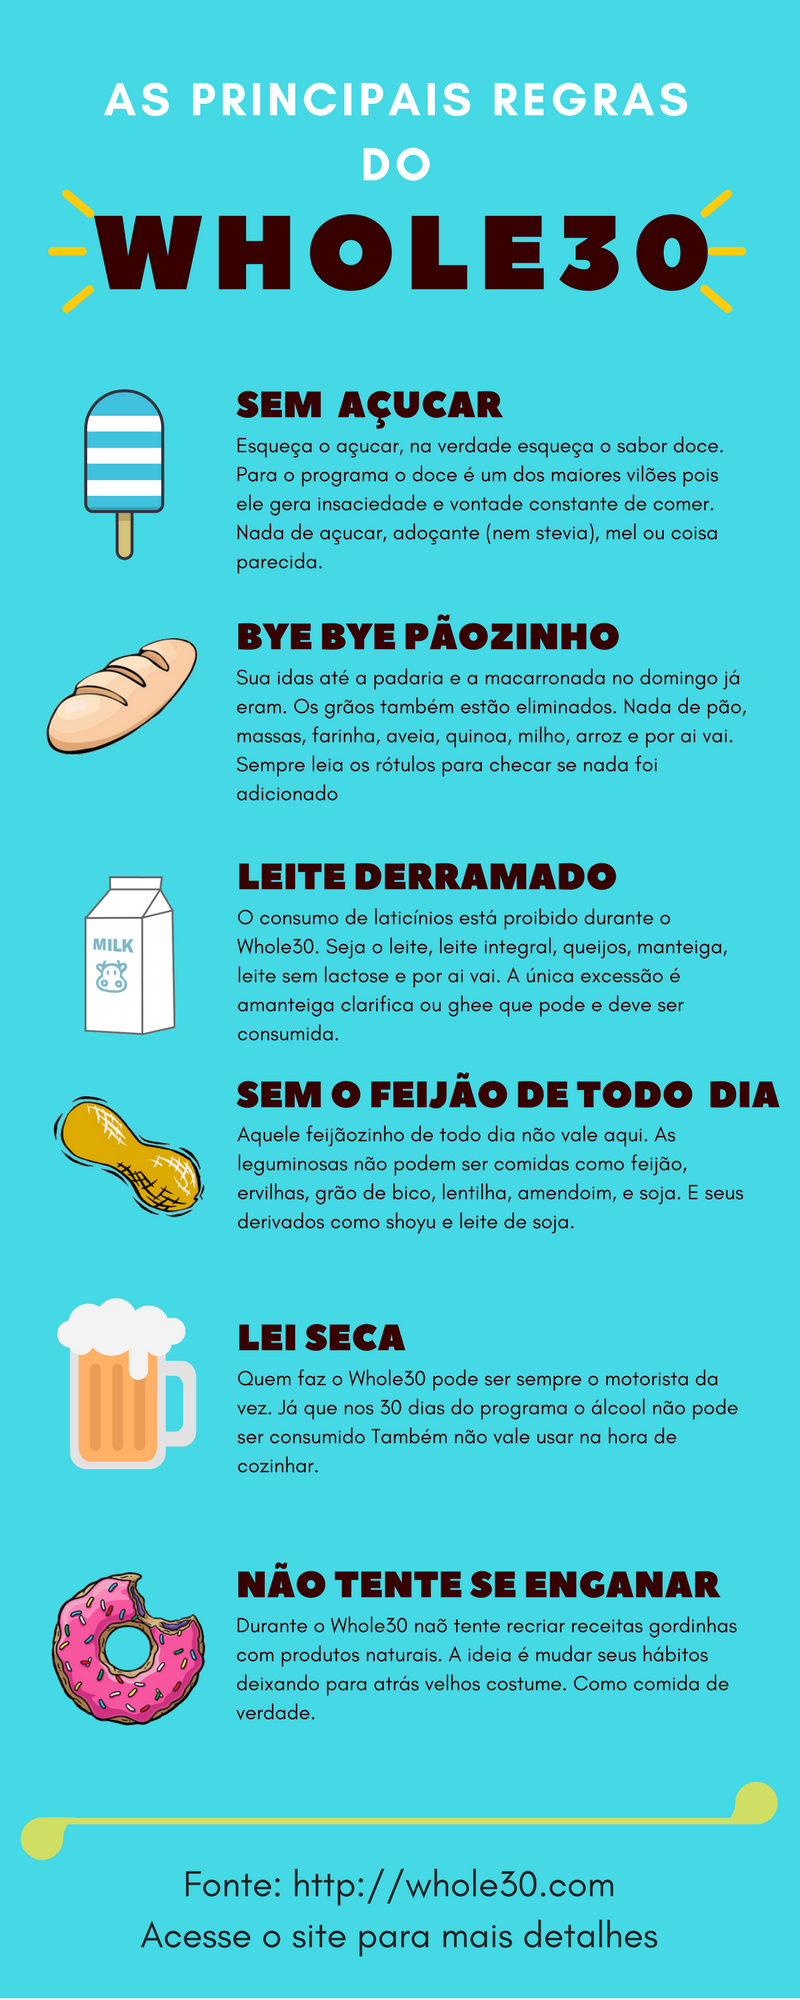
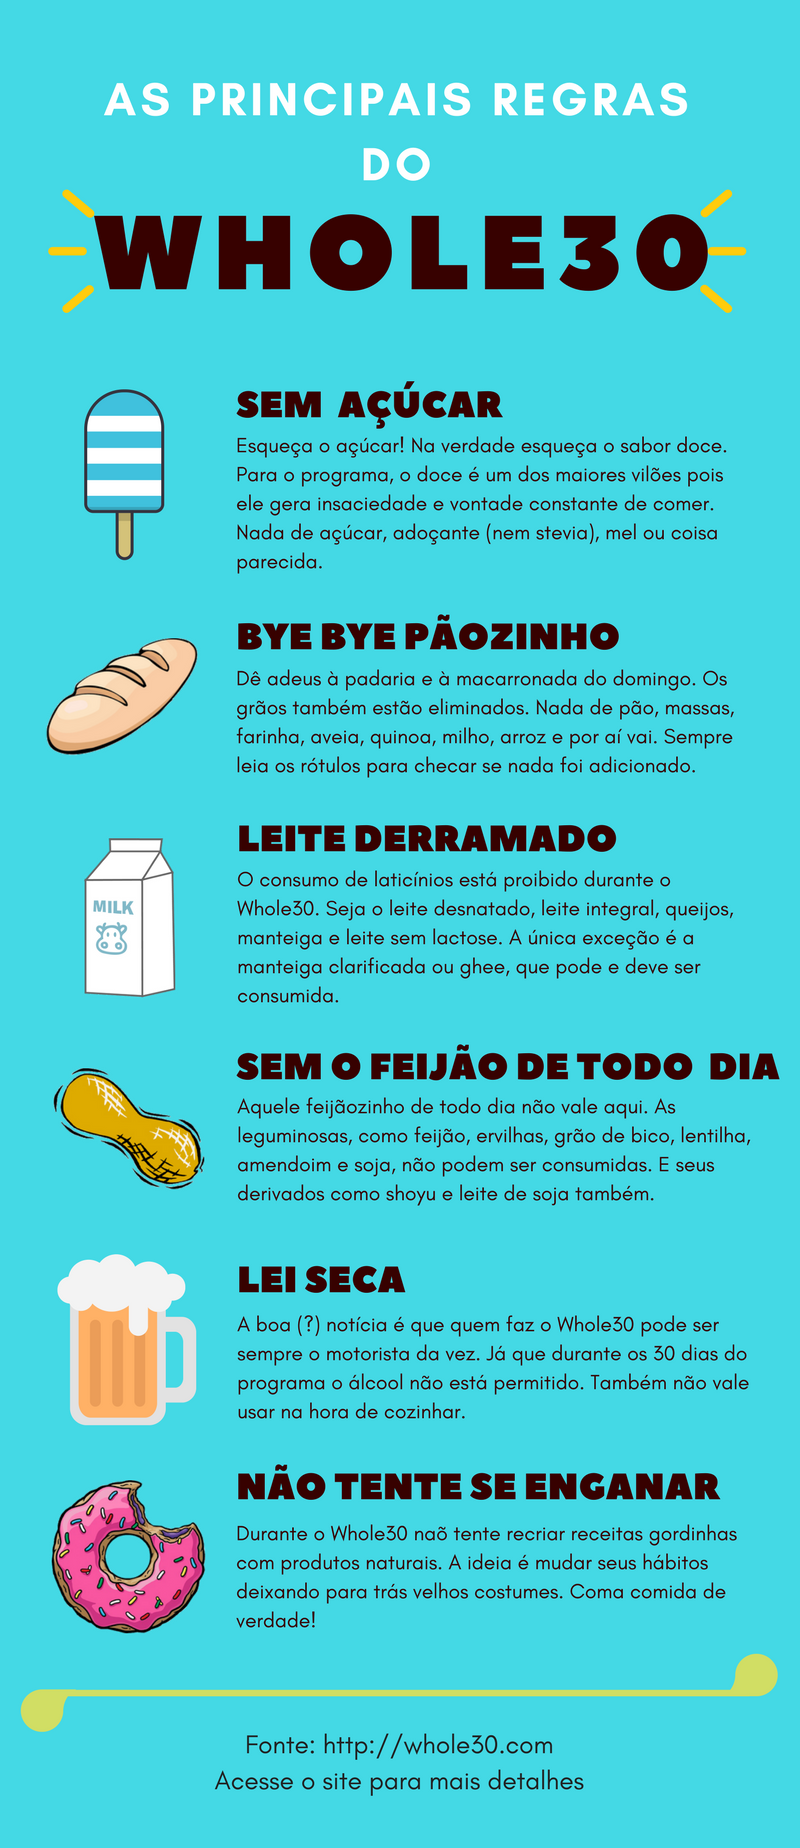
Ajustes finais Whole30

Changed region(s): [[0.0312, 0.0308, 0.9688, 0.987], [0.625, 0.0308, 0.875, 0.0617], [0.125, 0.0308, 0.2188, 0.0617]]

diff --git a/layouts/shortcodes/imdb.html b/layouts/shortcodes/imdb.html
@@ -1,0 +1,9 @@
+<div class="imdb">
+  <span class="imdbRatingPlugin" data-user="ur27934874" data-title="{{ .Get 0 }}" data-style="p4">
+    <a target="_blank" href="http://www.imdb.com/title/{{ .Get 0 }}/?ref_=plg_rt_1"><img src="http://g-ecx.images-amazon.com/images/G/01/imdb/plugins/rating/images/imdb_46x22.png" alt="" />
+    </a>
+  </span>
+  <script>
+  (function(d,s,id){var js,stags=d.getElementsByTagName(s)[0];if(d.getElementById(id)){return;}js=d.createElement(s);js.id=id;js.src="http://g-ec2.images-amazon.com/images/G/01/imdb/plugins/rating/js/rating.min.js";stags.parentNode.insertBefore(js,stags);})(document,'script','imdb-rating-api');
+  </script>
+</div>

diff --git a/themes/hugo-redlounge/static/css/redlounge.css b/themes/hugo-redlounge/static/css/redlounge.css
@@ -399,6 +399,15 @@ a.post-category:hover {
   margin-right: 0.4rem;
   margin-lefT: 0.1rem;
 }
+/*IMDB*/
+.imdb {
+  max-width: 50%;
+  height: auto;
+  float: left;
+  padding: 10px;
+  margin: 10px;
+  border-right: 1px solid #000
+}
 
 /* Paging */
 .paging {
@@ -567,4 +576,7 @@ blockquote.him p {
   display: inline;
   color: #608DB2;
 
+}
+li::before{
+  font-size: 18px;
 }

diff --git a/content/estilo-de-vida/o-desafio-do-whole30.md b/content/estilo-de-vida/o-desafio-do-whole30.md
@@ -1,5 +1,5 @@
 +++
-title = "O Desafio do Whole30"
+title = "O Desafio do Whole30 - Onde vive? O que come?"
 date = "2017-02-02T20:46:59"
 author = "Felipe Toffolo"
 banner = "/img/2017/02/Whole30.png"
@@ -10,62 +10,67 @@ draft = true
 +++
 ## Em busca da saúde perdida
 
-Hoje todos nós (ou quase todos) buscamos ter uma vida mais saudável, sem perder o prazer de viver.
-Essa busca muitas vezes parece meio antagônica, já que perseguindo as duas coisas muitas vezes a gente acaba não encontrando nenhuma.
-Com isso a acabamos vendo pessoas que buscam dietas malucas ou ficam malucas fazendo dietas, contando pontos, ficando três dias tomando somente sopa e por aí vai.
-Nessas horas a gente acaba pensando, por que é tão dificil ser saudável e comer as coisas que eu gosto?
-Bem, talvez o problema é que a gente gosta das coisas erradas. Pelo menos isso é o que propõe o Whole 30.
+Hoje todos nós (ou quase todos) buscamos ter uma vida mais saudável, sem que tudo pareça sem graça.
+Essa busca normalmente parece meio antagônica, já que perseguindo as duas coisas muitas vezes a gente acaba não encontrando nenhuma.
+Com isso, acabamos vendo pessoas que buscam dietas malucas ou ficam malucas fazendo dietas, contando pontos, ficando três dias tomando somente sopa e por aí vai.
+Nessas horas a gente acaba pensando: por que é tão dificil ser saudável e comer as coisas que eu gosto?
+Bem, talvez o problema é que gostamos das coisas erradas. Pelo menos isso é o que propõe o Whole30.
 
 ## Whole who?
 
-O Whole 30 é um programa, ou dieta, ou filosofia (eu ainda não sei do que chamar), que te propõe um ~desafio~ de 30 dias onde você deve seguir as regras do programa. Essa regras trazem uma série de limitações alimentares (veja o infográfico) que você deve seguir durante 30 dias. A ideia é que, cortando esses alimentos durante 30 dias, você consiga reiniciar o seu corpo e a sua alimentação. {{% quote-her "Comentário da Larissa bem relevante ao assunto que estamos discutindo nesse momento. Será mesmo? - Larissa" %}} Ou seja, não é somente emagrecer, mas ensinar o seu corpo e mente a gostarem das coisas certas e ao menos tentar esquecer as erradas. A partir dessa mudança de hábitos, o Whole 30 promete resolver vários problemas da sua saúde que podem estar sendo causados pela sua alimentação e você nem sabe.
-{{% figure src="/img/2017/02/Whole30-info.png" alt="Infográfico regras do whole30" class="pure-img-responsive pure-img-infographic" %}}
-[Conheça mais do Whole30 aqui][eea85add]
+O Whole30 é um programa, ou dieta, ou filosofia (eu ainda não sei do que chamar), que propõe uma mundança de hábitos de 30 dias onde você deve seguir uma série de restrições alimentares (veja o infográfico). A ideia é que, cortando esses alimentos durante esse período, você consiga reiniciar o seu corpo e reprogramar os seus hábitos alimentares de uma forma drástica.
+Ou seja, não é somente emagrecer, mas ensinar o seu corpo e a sua mente a gostarem das coisas certas e ao menos tentar esquecer as erradas. Fazendo com que seu corpo pare de usar o açucar como combustível principal e passe a usar a gordura. A partir dessa mudança de hábitos, o Whole30 promete resolver vários problemas da sua saúde que podem estar sendo causados pela sua alimentação (e que você nem sabe), além de trazer vários benefícios para o seu corpo.
+{{% quote-her "Ver todos os seus shorts e calças folgados é um deles. :P - Larissa" %}}
+
+{{% figure src="/img/2017/02/Whole30-info.png" alt="Infográfico regras do Whole30" class="pure-img-responsive pure-img-infographic" %}}
 
 ## A nossa experiência
 
-A Larissa surgiu com essa história de Whole30. De início eu falei que topava. Mas aí ela me disse que eu ia ter que ficar sem beber, aí eu desisti. Só que ela insistiu e não teve jeito. Resolvemos fazer o Whole30.
-{{% quote-him "Comentário da Felipe bem relevante ao assunto que estamos discutindo nesse momento. Será mesmo?" %}}
-Antes de começar, eu sugiro que você compre o livro ou leia o site **oficial** o máximo que conseguir. Eu já vi vários sites dando informação errada por aí. No site também tem vários PDF's que você pode baixar, bem [aqui][767ac2c2], e ter no seu celular para consultar quando necessário (eu usei MUITO).
-Como está em ingles fiz uma versão da lista de comprar em português, baixe aqui.
+A Larissa surgiu com essa história de Whole30. De início eu falei que topava. Mas aí ela me disse que eu ia ter que ficar sem beber, aí eu desisti. Só que ela insistiu e não teve jeito. Resolvemos (ela resolveu) fazer o Whole30.
+Antes de começar, eu sugiro que você compre o livro ou leia o site **oficial** o máximo que conseguir. Eu já vi vários sites dando informação errada por aí. No site também tem vários PDF's que você pode baixar [aqui][767ac2c2]. É bom ter no seu celular para consultar quando necessário (eu usei MUITO).
 
 ### Os Primeiros Dias
 
-Eu poderia dizer que os primeiros dias foram fáceis. A gente estava bem empolgado.
-É bom ressaltar que já tinhamos uma alimentação bem saudável antes. Não sabiamos há muito tempo o que é refrigerante e fast-food aqui em casa é tabu.
- Algumas pessoas têm reações durante os primeiros dias como cansaço, dores de barriga, mau humor e dor de cabeça. Eu tive muita dor de cabeça durante três dias, mas depois passou. A justificativa disso é que seu corpo está passando por um processo de desintoxicação e isso impactará em algumas reações.
+Já tinhamos uma alimentação bem saudável antes. E os primeiros dias foram fáceis. A gente estava bem empolgado e isso facilitou bastante. No início acontece de algumas pessoas terem reações como cansaço, dores de barriga, mau humor e dor de cabeça (no livro existe uma timeline explicando cada efeito desse). Eu tive muita dor de cabeça durante três dias, mas depois passou. A justificativa disso é que seu corpo está passando por um processo de desintoxicação e isso causa essas reações.
 
-Tudo ia muito bem até o primeiro dia que eu passei fome. Fomos sair pela primeira vez em um shopping, para a minha supresa, não tinha um lugar que servia algo decente para que eu pudesse comer. Acabei tendo que conversar com o atendente e pedir para fazer algumas substituições no prato (isso vira rotina).
+### Fazendo comida de verdade
+
+Eu adoro cozinhar, e cozinhar as receitas do Whole30 foi uma experiência diferente para mim. Para início de conversa eu não podia usar quase nada que eu estava habituado para dar aquele toque na comida. Ia fazer uma saladinha, não podia colocar queijo. Ia fazer um molho, o vinho tava proibido. Confesso que de início eu estranhei. Só que aí veio a parte legal. Eu tive que começar a utilizar vários ingredientes que eu deixava de lado, ou usava como coadjuvantes, e que agora são essenciais no meu dia a dia. Maionese caseira, leite de coco, abacate e uma variedade de verduras que eu nem dava ideia no supermercado (agora mal vamos ao supermercado, a feira é o destino mais comum).
+{{% quote-her "A parte boa para mim é que o meu papel era experimentar tudo isso. Delícia.  - Larissa" %}}
+Depois que eu peguei a prática, tudo ficou tranquilo de fazer e mesmo assim muito gostoso (em breve receitas).
 
 ### No meio do caminho tinha uma festa
 
-A gente gosta muito de se encontrar com os amigos, tomar um vinhozinho, comer um tira-gosto e deixar a conversa rolar. E essa era uma preocupação que eu tinha. Será que vou ficar anti-social? Será que vou achar tudo chato? Felizmente não foi isso que aconteceu. Saímos várias vezes com nosso amigos e todas as vezes foi bem divertido. A mesma coisa? Lógico que não né, mas foi bem bom mesmo assim.
+A gente gosta muito de encontrar os amigos, tomar um vinhozinho, comer um tira-gosto e deixar a conversa rolar. E essa era uma preocupação que eu tinha. Será que vou ficar anti-social? Será que vou achar tudo chato? Felizmente não foi isso que aconteceu. Saímos várias vezes com nossos amigos e todas as vezes foi bem divertido. (Pra gente né, não sei pra eles que ficavam escutando eu falar de Whole30) A mesma coisa? Lógico que não né, mas foi bem bom mesmo assim.
 
-### E no final a recompensa
+### E no final, a recompensa
 
-Ao chegar ao fim dos 30 dias era a hora de receber os louros da vitória. Não tinhamos subido ainda na balança, já que essa é uma das regras do programa, você só pode se pesar no final.
+Ao chegar ao fim dos 30 dias era a hora de receber os louros da vitória. Não tínhamos subido ainda na balança, já que essa é uma das regras do programa, você só pode se pesar ao final.
 
-O que a gente percebeu foi:
+O que percebemos foi:
 
 - Olhando no espelho deu para ver que o nosso corpo deu uma boa secada, além disso as nossas calças ficaram folgadas.
-- A nossa disposição melhorou muito. Eu tenho mais energia para usar durante o dia, não fico mais de bode depois do almoço e a noite durmo super bem. Até acordar pra cedo ir malhar ficou mais fácil
-- Eu achava que na balança eu não veria diferença, mas acabei perdendo 4,5kg para o meu espanto.
-- Com o tempo a gente criou os hábitos e se acostumou com essa vida. Já não lembro mais o que é açucar e fazer comidinhas em casa ficou fácil.
-- Acho que eu tenho algum tipo de intolerância a alguma coisa, pois minhas funçoes intestinais melhoraram muito.
+- A nossa disposição melhorou muito. Eu tenho mais energia para usar durante o dia, não fico mais de bode depois do almoço e a noite durmo bem. Até acordar cedo para ir malhar ficou menos sofrido.
+- Eu achava que na balança eu não veria diferença, mas, para meu espanto, acabei perdendo 4,5kg.
+- Com o tempo, nos habituamos com esse novo estilo de vida. Já não lembro mais o que é açúcar e fazer comidinhas em casa ficou fácil.
 
-Então no final ficamos muito felizes com o resultado da dieta, e já estamos mantendo esse padrão de vida.
-Lógico que agora seramos mais maleaveis (quero meu vinho de volta). Estamos estudando mais sobre a dieta Paleo com o objetivo de adaptar essas ideias encaixando da melhor forma na nossa vida .
+Ficamos muito felizes com o resultado do Whole30 e já adotamos esse padrão de vida.
+Lógico que agora seremos mais maleáveis (quero meu vinho de volta). Estamos estudando mais sobre a dieta Paleo (que é bem semelhante, mas mais flexível) com o objetivo de adaptar essas ideias e encaixar da melhor forma na nossa vida .
 
 ## Dicas Importantes para o Whole30
 
-1. Tenha sempre a informação do que pode comer ou não por perto para tirar as suas dúvidas. Na dúvida não coma.
-2. Se prepare para cozinhar. Tire algumas horas do seu fim de semana para adiantar o máximo que for possível para a semana.
-3. Pesquise antes de ir a algum lugar. Alguns lugares não vão ter NADA para você comer.
-4. Fique tranquilo! Com o tempo você vai se acostumar com o Whole30 e suas restrições.
-5. Não tenha medo da gordura. O Whole30 prega que a gordura na quantidade certa é importante e deve estar em toda refeição. Isso no começo assusta, mas fique tranquilo que dá certo.
-6. Você pode comer bacon, mas tem que ser sem conservantes e açucar. Procure lugares que vendam (eu achei na Casa do Holandês)
-7. Faça sempre novas receitas e vá variando suas refeições. A mesmice alimentar desanima muito.
-8. Continue tendo vida social, mas já deixe claro para seus amigos que você tá em 30 dias sabáticos.
+1. **Tenha sempre a informação na mão.** Você vai precisar disso por perto para tirar as suas dúvidas. Na dúvida, não coma.
+2. **Prepare-se para cozinhar!** Você vai ter que fazer comida em casa, é muito difícil fazer o Whole30 só comendo fora. Tire algumas horas do seu fim de semana para adiantar o máximo que for possível para a semana.
+3. **Pesquise o cardápio dos restaurantes antes de ir.** Alguns lugares não vão ter NADA para você comer.
+4. **Fique tranquilo!** Com o tempo você vai se acostumar com o Whole30 e suas restrições.
+5. **Não tenha medo da gordura.** O Whole30 prega que a gordura na quantidade certa é importante e deve estar em toda refeição. Isso no começo assusta, mas fique tranquilo que dá certo.
+6. **Você pode comer bacon!!!!!!!!!!!** Mas tem que ser sem conservantes e açúcar. Procure lugares que vendam (aqui em Brasília, achamos na Casa do Holandês)
+7. **Faça sempre novas receitas.** Vá variando suas refeições. A mesmice alimentar desanima muito
+8. **Continue tendo vida social.** Mas já deixe claro para seus amigos que você tá em 30 dias sabáticos.
+
+E você? Já fez essa dieta, pretende fazer, tem dúvidas? Deixe seu comentário! ;)
+
+[Conheça mais do Whole30 aqui no site oficial][eea85add]
 
 [eea85add]: http://whole30.com/ "Conheça mais do Whole30 aqui"
   [767ac2c2]: http://whole30.com/pdf-downloads/ "Downloads Whole30"

diff --git a/content/cultura-pop/10-motivos-para-assistir-santa-clarita-diet.md b/content/cultura-pop/10-motivos-para-assistir-santa-clarita-diet.md
@@ -1,0 +1,35 @@
++++
+banner = ""
+keywords = []
+title = "10 Motivos para assistir Santa Clarita Diet"
+draft = true
+description = ""
+author = ""
+categories = []
+tags = []
+date = "2017-02-09T19:28:47-02:00"
+
++++
+{{< imdb tt5580540 >}}
+Santa Clarita Diet é um novo seriado do Netflix, onde Drew Barrymore e Timothy Olyphant fazem um casal de corretores com uma vida bem normal e dentro da linha. Até que a personagem de Drew se transforma em um "zumbi" e ai você já imagina a m*%&# que isso vai dar.
+
+## 1 - Fácil digestão
+A série é ótima para sentar, relaxar e assistir, sem ter que pensar muito.
+## 2 - Timothy Olyphant sendo diferente
+Quem está acostumado a ver o Timothy sendo o badass como em Justify ou Hitman, vai achar bem diferente ele fazendo o papel de um marido comum e frágil
+## 3 - Drew Barrymore sendo ela mesma
+É sempre divertido ver a Drew Barrymore fazendo o papel da doidinha, meio avoada e meio inconsequente mas que todos gostam, tem boas intenções e é divertida
+## 4 - Rindo de si mesma
+Santa Clarita Diet não se leva muito a sério e usa disso para fazer a gente rir. A série cria as mais absurdas situações onde a gente não tem opção a não ser cair na gargalhada.
+## 5 - Zumbis
+Como não dar uma chance para uma comédia sobre a criatura sobrenatural preferida da cultura pop?
+## 6 - Do tamanho certo
+Os episódios duram cerca de 30 minutos. Ótimo para quem quer ver algo rapidinho e quem estiver com mais tempo pode ver dois seguidos.
+## 7 - Tem uma mensagem até
+Apesar de engraçadinho e despretensioso o seriado te faz imaginar, até onde você iria pela sua família.
+## 8 - Tá todo mundo bem
+Além das duas estrelas da série o restante do elenco não fica atrás e dão o apoio necessário.
+## 9 - Está no Netflix
+Eu não sei quanto a vocês, mas só a facilidade e praticidade de estar no Netflix já anima de assistir a série.
+## 10 - Muito Ketchup
+A cenas de sangue são imperdíveis, é muito sangue e tripas pra todo lado, mas não chega a dar repulsa, é um nojinho diet digamos.
